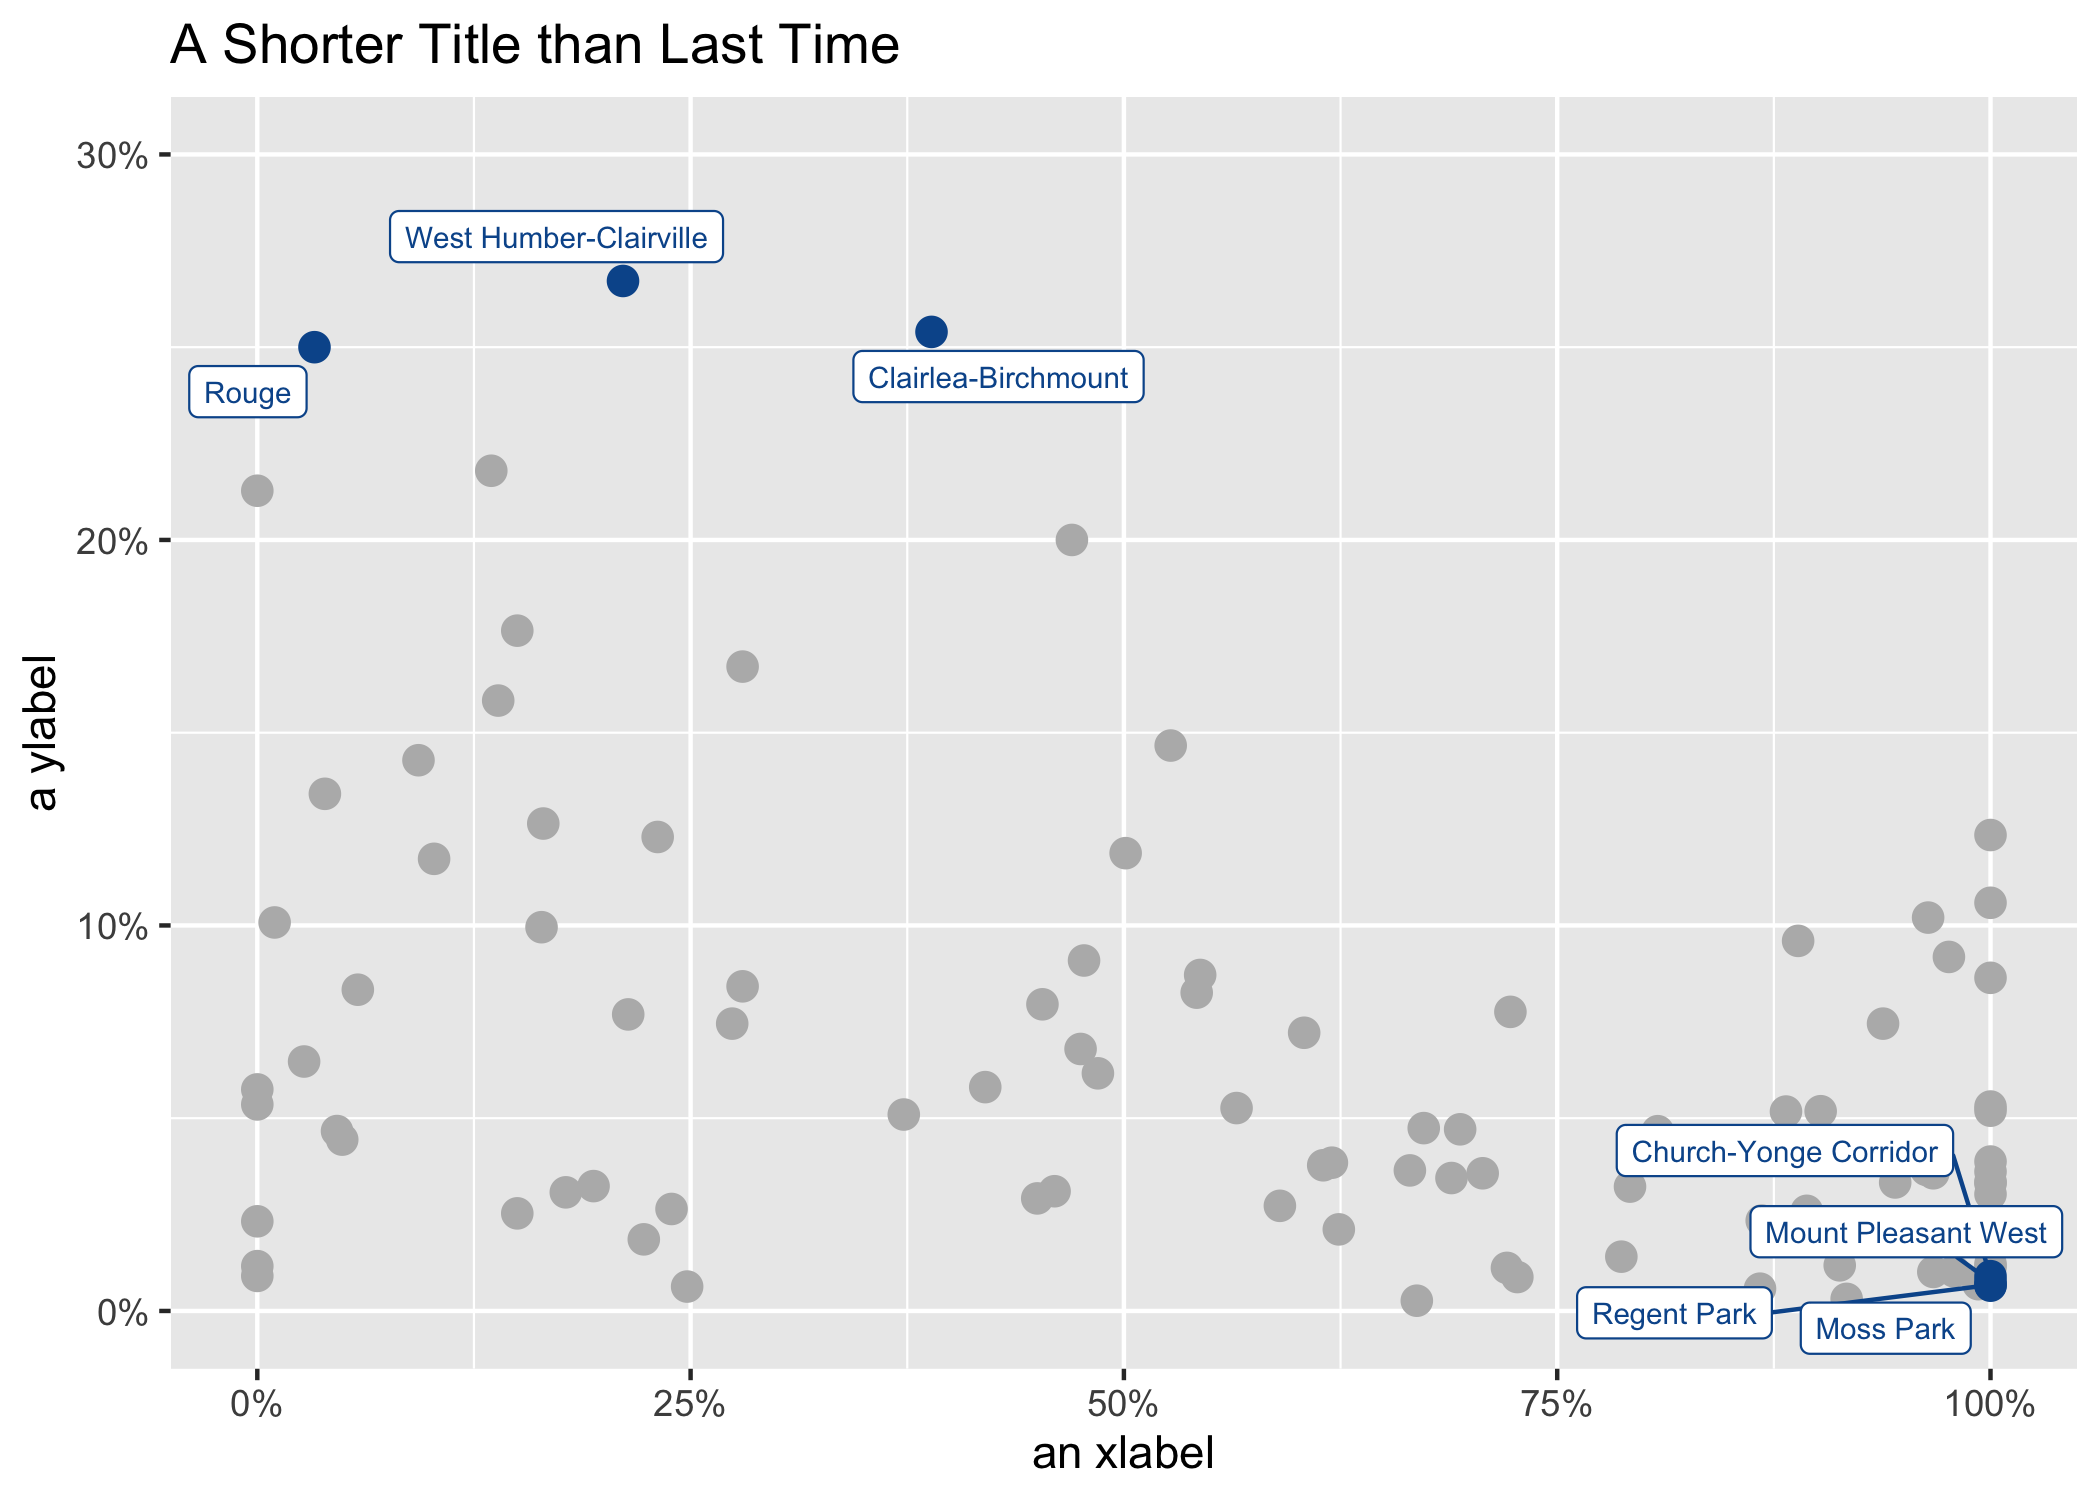
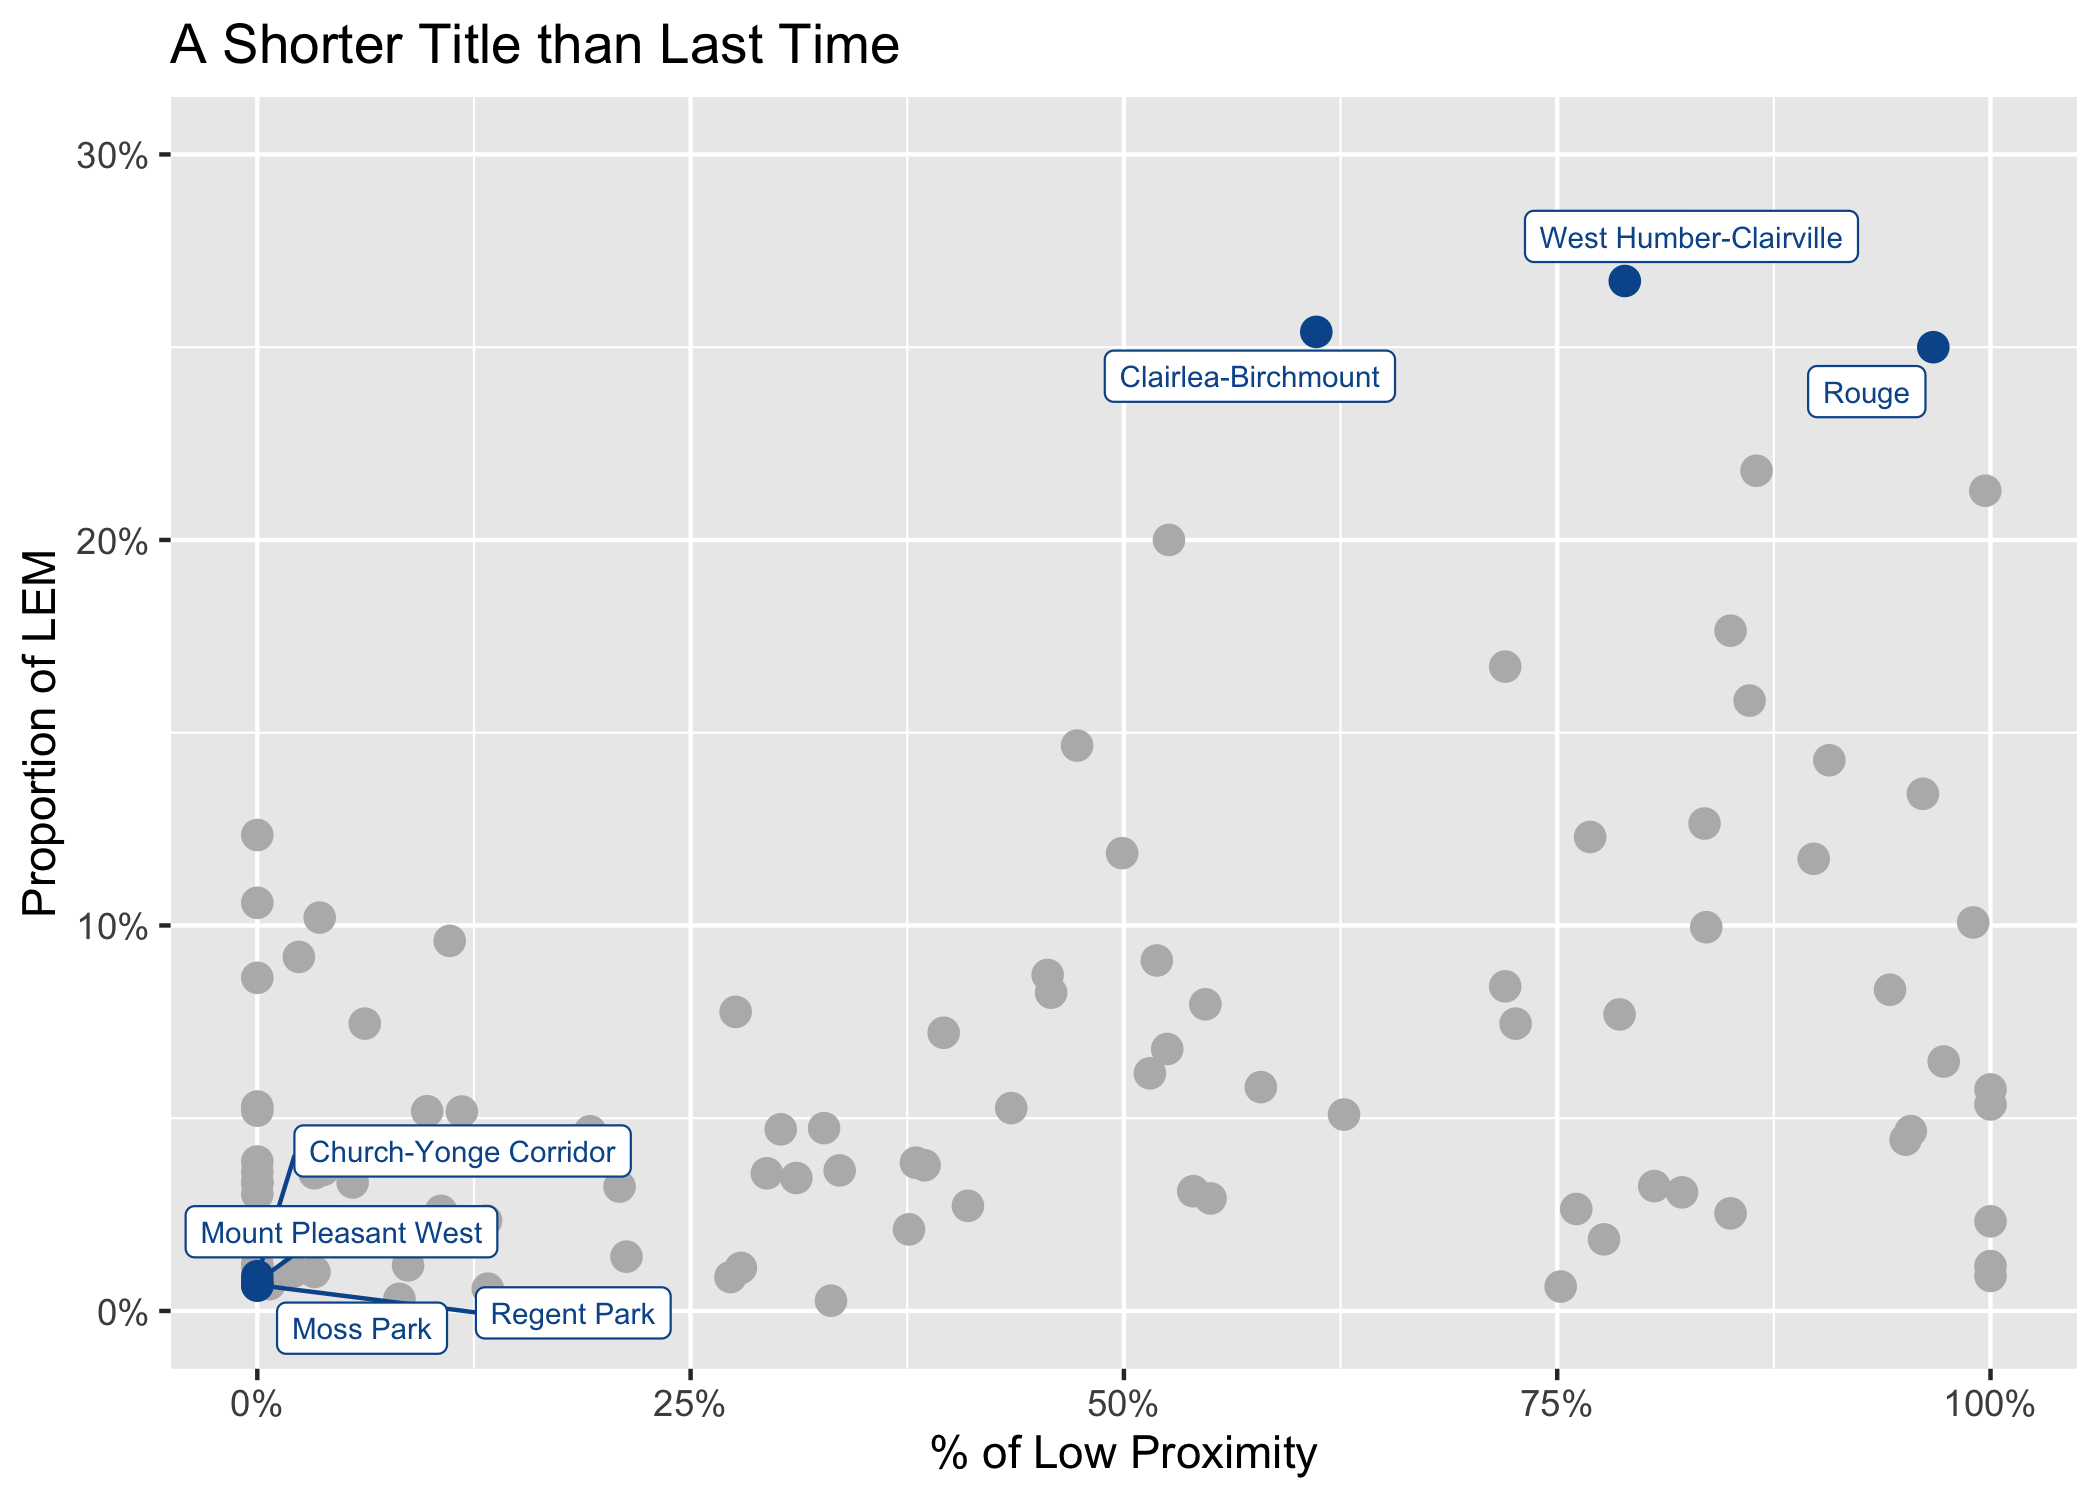
swapped x-axis to low per lorena

diff --git a/stories/Story-2.md b/stories/Story-2.md
@@ -428,7 +428,7 @@ Thorncliffe Park
     ## 10 Bendale                 0.527     0  0.527 0.473   0.147  3750      550   225
     ## # … with 95 more rows, and 1 more variable: NonMarket <dbl>
 
-![](Story-2_files/figure-gfm/unnamed-chunk-28-1.png)<!-- --> \`\`\`
+![](Story-2_files/figure-gfm/unnamed-chunk-28-1.png)<!-- -->
 
 ### ternary
 
